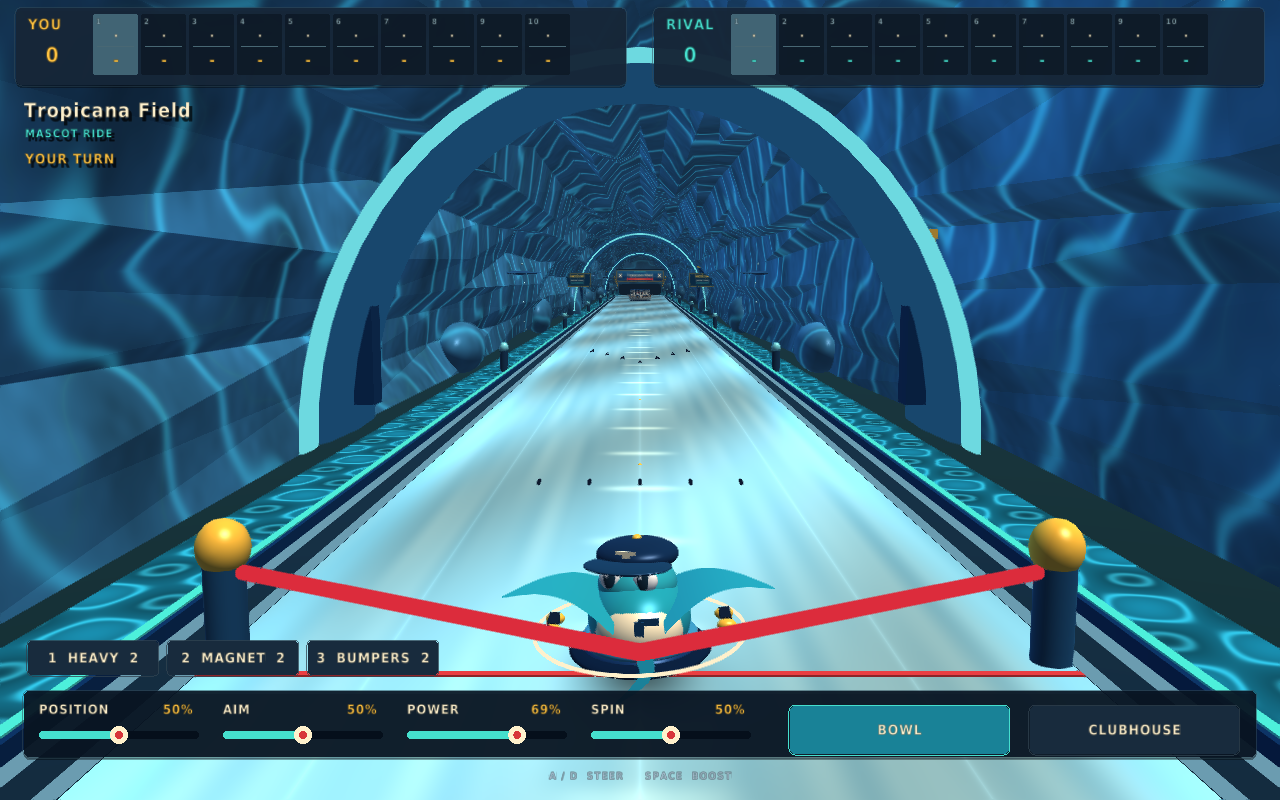
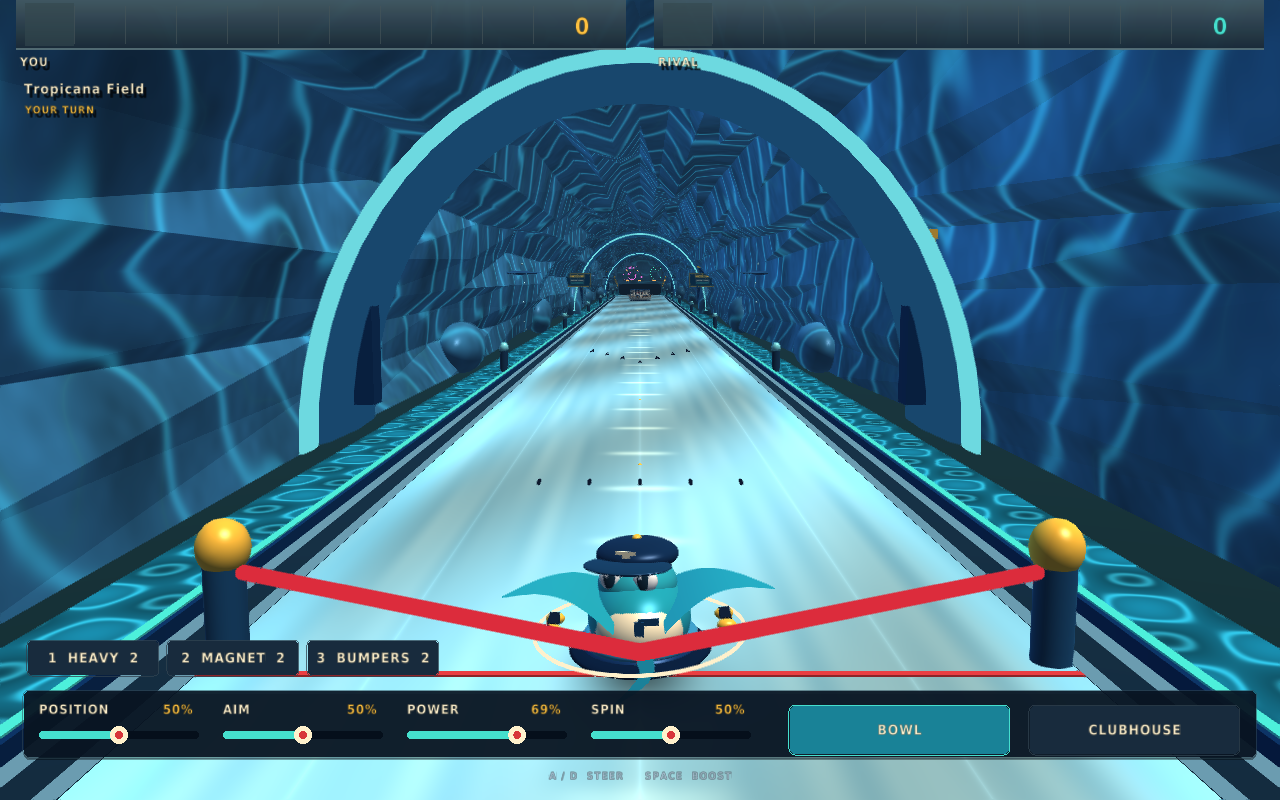
Slim arcade scoreboards and replace billboards with neon bowling art

Changed region(s): [[0.0, 0.0, 1.0, 0.2188], [0.4688, 0.3125, 0.5312, 0.375]]

diff --git a/native/src/art.hpp b/native/src/art.hpp
@@ -192,30 +192,10 @@ void main(){uv=vertexTexCoord;normal=normalize(mat3(matNormal)*vertexNormal);wor
             BeginTextureMode(signs[a]);
             ClearBackground({7, 19, 38, 255});
             DrawRectangleGradientV(0, 0, 1024, 256, {26, 83, 124, 255}, {8, 27, 61, 255});
-            for (int ray = 0; ray < 22; ++ray) {
-                float a = ray * 2 * PI / 22, b = a + .10f;
-                DrawTriangle({512, 128}, {512 + std::cos(b) * 1100, 128 + std::sin(b) * 1100},
-                             {512 + std::cos(a) * 1100, 128 + std::sin(a) * 1100}, {47, 119, 151, 85});
-            }
-            DrawRectangleRoundedLinesEx({9, 9, 1006, 238}, .20f, 10, 10, {9, 20, 39, 255});
-            DrawRectangleRoundedLinesEx({16, 16, 992, 224}, .20f, 10, 5, gold);
-            for (int side : {-1, 1}) {
-                float x = 512 + side * 427.f;
-                DrawLineEx({x - 30, 77}, {x + 31, 179}, 11, {219, 159, 74, 255});
-                DrawLineEx({x + 30, 77}, {x - 31, 179}, 11, {219, 159, 74, 255});
-                DrawCircleV({x, 128}, 39, {7, 19, 40, 255});
-                DrawCircleV({x - 2, 125}, 34, cream);
-                for (int j = -2; j <= 2; ++j) {
-                    DrawLineEx({x - 18, 109 + j * 7.f}, {x - 11, 113 + j * 7.f}, 3, red);
-                    DrawLineEx({x + 11, 109 + j * 7.f}, {x + 18, 113 + j * 7.f}, 3, red);
-                }
-            }
-            float size = std::min(82.f, 755.f / std::max(1.f, tw(bowling::arenas[a].name, 82)) * 82);
-            center("BIG LEAGUE BOWLING", 512, 31, 24, aqua);
-            center(bowling::arenas[a].name, 516, 83, size, {2, 12, 29, 255});
-            center(bowling::arenas[a].name, 512, 77, size, cream);
-            DrawRectangleRounded({224, 176, 576, 48}, .25f, 8, {173, 48, 55, 255});
-            center(bowling::arenas[a].theme, 512, 184, 30, gold);
+            DrawRectangleLinesEx({12, 12, 1000, 232}, 3, {82, 136, 151, 255});
+            float size = std::min(75.f, 900.f / std::max(1.f, tw(bowling::arenas[a].name, 75)) * 75);
+            center(bowling::arenas[a].name, 512, 56, size, cream);
+            center("B A L L P A R K   L A N E S", 512, 164, 26, {110, 189, 196, 255});
             EndTextureMode();
             GenTextureMipmaps(&signs[a].texture);
             SetTextureFilter(signs[a].texture, TEXTURE_FILTER_TRILINEAR);
@@ -551,8 +531,7 @@ void main(){uv=vertexTexCoord;normal=normalize(mat3(matNormal)*vertexNormal);wor
             }
         }
         // A broad themed marquee above the rack, with a readable stadium identity.
-        box({0, 4.6f, 30.8f}, {11.6f, 3.1f, .6f}, {9, 26, 48, 255});
-        sign(signs[arena].texture, {0, 4.6f, 30.42f}, 11.3f, 2.8f);
+        neonMural(30.42f);
         for (int side : {-1, 1}) {
             for (int j = 0; j < 5; ++j)
                 orb({side * (5.4f + j * .18f), 2.2f + j * .5f, 30.4f}, {.23f, .23f, .23f}, gold);
@@ -576,6 +555,44 @@ void main(){uv=vertexTexCoord;normal=normalize(mat3(matNormal)*vertexNormal);wor
                     }
                 }
             }
+    }
+    void neonMural(float z) {
+        auto tubeLine = [&](Vector3 a, Vector3 b, Color hue) {
+            beam(a, b, .095f, {31, 49, 63, 255});
+            beam({a.x, a.y, a.z - .12f}, {b.x, b.y, b.z - .12f}, .035f, hue);
+        };
+        // Original neon bowling illustration, built from continuous tube strokes.
+        for (int i = 0; i < 64; ++i) {
+            float a = i * 2 * PI / 64, b = (i + 1) * 2 * PI / 64;
+            tubeLine({-3.9f + 1.45f * std::cos(a), 5.25f + 1.45f * std::sin(a), z},
+                     {-3.9f + 1.45f * std::cos(b), 5.25f + 1.45f * std::sin(b), z}, {69, 232, 194, 255});
+        }
+        for (Vector2 hole : {Vector2{-4.35f, 5.8f}, Vector2{-3.8f, 6.f}, Vector2{-3.95f, 5.35f}})
+            for (int i = 0; i < 16; ++i) {
+                float a = i * 2 * PI / 16, b = (i + 1) * 2 * PI / 16;
+                tubeLine({hole.x + .12f * std::cos(a), hole.y + .12f * std::sin(a), z},
+                         {hole.x + .12f * std::cos(b), hole.y + .12f * std::sin(b), z},
+                         {69, 232, 194, 255});
+            }
+        const Vector2 shape[] = {
+            {-.48f, 0},     {-.68f, .36f},  {-.72f, .82f}, {-.61f, 1.25f}, {-.29f, 1.9f}, {-.22f, 2.36f},
+            {-.39f, 2.65f}, {-.36f, 3.02f}, {0, 3.19f},    {.36f, 3.02f},  {.39f, 2.65f}, {.22f, 2.36f},
+            {.29f, 1.9f},   {.61f, 1.25f},  {.72f, .82f},  {.68f, .36f},   {.48f, 0},     {-.48f, 0}};
+        for (int pin = 0; pin < 3; ++pin) {
+            float angle = (pin - 1) * .25f, ox = .2f + pin * 1.7f;
+            auto point = [&](Vector2 p) {
+                return Vector3{ox + p.x * std::cos(angle) - p.y * std::sin(angle),
+                               3.7f + p.x * std::sin(angle) + p.y * std::cos(angle), z};
+            };
+            for (int i = 0; i < 17; ++i)
+                tubeLine(point(shape[i]), point(shape[i + 1]), {233, 111, 220, 255});
+            tubeLine(point({-.24f, 2.2f}), point({.24f, 2.2f}), {255, 202, 108, 255});
+        }
+        for (int i = 0; i < 28; ++i) {
+            float x = -6.3f + i * .45f;
+            tubeLine({x, 3.45f + .1f * std::sin(x), z}, {x + .45f, 3.45f + .1f * std::sin(x + .45f), z},
+                     {255, 184, 99, 255});
+        }
     }
     void loungeDetails(Color team) {
         // Close columns, soffits and pendant lights, in the warm arcade-bowling style.
@@ -691,11 +708,15 @@ void main(){uv=vertexTexCoord;normal=normalize(mat3(matNormal)*vertexNormal);wor
                 box({x, 2.85f, 28.7f}, {7, .20f, .35f}, team);
                 box({x, 2.71f, 28.65f}, {6.5f, .06f, .12f}, aqua);
             }
-            box({0, 5.5f, 30.5f}, {18, 3.9f, 1}, ink);
-            box({0, 7.65f, 30.5f}, {19, .25f, 1.4f}, gold);
-            sign(signs[arena].texture, {0, 5.5f, 29.95f}, 17.6f, 3.7f);
-            for (float x : {-15.f, 15.f})
-                sign(arena == 9 ? ad.texture : signs[arena].texture, {x, 5.4f, 29.8f}, 7, 3.5f);
+            material(2);
+            box({0, 5.4f, 30.5f}, {45, 5.1f, .7f}, {72, 56, 62, 255});
+            material(0);
+            box({0, 7.95f, 30.2f}, {45, .12f, .3f}, {128, 83, 62, 255});
+            neonMural(29.8f);
+            for (float x : {-14.f, 14.f}) {
+                box({x, 5.2f, 29.9f}, {5.1f, 1.4f, .2f}, {17, 30, 42, 255});
+                sign(signs[arena].texture, {x, 5.2f, 29.75f}, 4.8f, 1.2f);
+            }
             material(2);
             box({0, 9, 39}, {66, 18, 1}, {91, 62, 48, 255});
             material(0);

diff --git a/native/src/main.cpp b/native/src/main.cpp
@@ -24,23 +24,28 @@ std::string marks(const std::vector<int> &r, int f) {
     return s.empty() ? "." : s;
 }
 void scoreCard(const Game &g, float x, Color c, const char *who) {
-    panel({x, 8, 610, 77}, {23, 41, 59, 245});
-    text(who, x + 12, 16, 17, c);
+    // One shallow score strip per player, like a classic arcade bowling display.
+    DrawRectangleGradientV(int(x), 0, 610, 49, {68, 91, 102, 245}, {26, 44, 57, 245});
+    DrawLineEx({x, 49}, {x + 610, 49}, 2, {110, 141, 148, 210});
     auto scores = g.scores();
     for (int i = 0; i < 10; ++i) {
-        float left = x + 77 + i * 48.f;
-        DrawRectangleRounded({left, 14, 45, 61}, .12f, 4,
-                             i == g.frame ? Color{65, 100, 116, 255} : Color{15, 29, 44, 220});
-        text(std::to_string(i + 1), left + 3, 17, 9, {145, 177, 188, 255});
-        center(marks(g.frames[i], i), left + 23, 25, 15, cream);
-        DrawLine(left + 4, 46, left + 41, 46, {72, 103, 115, 255});
-        center(scores[i] ? std::to_string(*scores[i]) : "-", left + 23, 51, 18, c);
+        float left = x + 9 + i * 51.f;
+        if (i == g.frame)
+            DrawRectangle(int(left), 3, 49, 43, {88, 123, 132, 125});
+        DrawLine(int(left + 50), 6, int(left + 50), 44, {117, 143, 150, 130});
+        std::string rolls = marks(g.frames[i], i);
+        if (rolls == ".")
+            rolls = "";
+        center(rolls, left + 24, 7, 15, {211, 230, 224, 255});
+        if (scores[i])
+            center(std::to_string(*scores[i]), left + 24, 27, 18, c);
     }
     int total = 0;
     for (auto score : scores)
         if (score)
             total = *score;
-    center(std::to_string(total), x + 36, 43, 24, c);
+    center(std::to_string(total), x + 566, 13, 27, c);
+    title(who, x + 4, 55, 14, cream);
 }
 int main(int argc, char **argv) {
     bool smoke = false, startInGame = false, smokeMascot = false, demoShot = false;
@@ -417,12 +422,12 @@ int main(int argc, char **argv) {
         } else {
             scoreCard(match.games[0], 16, gold, "YOU");
             scoreCard(match.games[1], 654, aqua, "RIVAL");
-            title(arenas[arena].name, 24, 99, 23, cream);
-            title(match.mascot ? "MASCOT RIDE" : "BALLPARK BOWLING", 25, 127, 13, aqua);
+            title(arenas[arena].name, 24, 81, 16, cream);
+
             title(state == 3          ? "MATCH COMPLETE"
                   : match.player == 0 ? "YOUR TURN"
                                       : "RIVAL'S TURN",
-                  25, 151, 16, gold);
+                  25, 104, 12, gold);
             if (state == 2 || state == 3) {
                 DrawRectangle(180, 320, 920, 90, {13, 24, 45, 210});
                 center(result, 640, 342, 33, gold);

diff --git a/native/ART_DIRECTION.md b/native/ART_DIRECTION.md
@@ -48,3 +48,9 @@ Removed riveted panel borders and the right-side power tower. Powers are compact
 The second Dropbox clip is now accessible: 26.333 seconds. Sampled frames (including 0.5-second samples around 12–21 seconds) show lateral placement arrows, a vertical green meter, launch and following camera. This supersedes the earlier unavailable-reference notes. Mouse button events are not visible: upward drag for power, lateral drag for aim and release-to-launch are an inferred mapping, not verified original input internals. Space retains the timed keyboard alternative. Traditional uses the new on-lane UI instead of four sliders.
 
 The previous 17.35:1 presentation stretched the entire hall and was a poor match for this arcade reference. Traditional mode now deliberately compresses lane depth (1.55 times normalized coordinates), with restored close scenery and a 53-degree camera. It is not presented as a regulation simulation. Mascot presentation is unchanged.
+
+## Scoreboard / back wall detail pass
+
+Scorecards now use 49-pixel slate strips with fine frame dividers, roll marks above cumulative scores, and totals at the outside ends. Player labels sit below the strips. Empty frames no longer display placeholder dots/dashes. Both modes share the slim scorecards.
+
+The large center stadium billboards have been removed in both scenes. Original neon tube outlines of bowling pins and a ball replace them. Traditional's back wall has brick texture and wood trim; smaller side plaques retain stadium identity. Side plaque artwork is now a restrained wordmark rather than the baseball/bat billboard. The bowling controls and progression are unchanged.

diff --git a/native/docs/VALIDATION.md b/native/docs/VALIDATION.md
@@ -45,3 +45,7 @@ The 26.333-second Zombies clip is now accessible and was visually sampled, inclu
 Linux build passed all nine physics/rules scenarios and the campaign suite, including new drag power/aim, locked position, bounds and downward-drag checks. Both graphical matches passed (traditional 37 rolls, 115–119; mascot 41 rolls, 72–35). Real X11 mouse movement/press/drag was injected into the native window and the 81% held-power screenshot was visually checked. Windows cross-build and ZIP verification passed; Windows execution remains unverified.
 
 A second real X11 input run pressed, dragged and released the mouse. The captured result showed the ball at the pin deck, fallen pins and the following camera, confirming release launches the shot. The original game's exact mouse-button semantics still cannot be proven from a screen recording alone.
+
+## Slim scorecard / neon wall pass
+
+Linux build and existing rules/campaign suites passed. A full traditional match completed in 37 rolls (115–119). Visually inspected both the initial scene and completed scorecards, including strikes, spares, cumulative totals and tenth-frame bonus marks. Saved screenshots: wrigley-traditional.png and scorecard-result.png. No graphical shader errors. Windows cross-build completed; Windows execution remains unverified.

diff --git a/HANDOFF.md b/HANDOFF.md
@@ -37,3 +37,5 @@ The original task workspace contains /workspace/baseball-bowling/dist/Big-League
 Latest follow-up: rendered lane proportions use the 60 ft / 41.5 in ratio, converted from normalized simulation coordinates. Shot timing/physics remain arcade-style. HUD has simpler panels/buttons, horizontal powers, and hides shot controls in motion. See ART_DIRECTION.md and VALIDATION.md for scope and checks. The prior artifact backup is the earlier graphics build; rebuild the latest Windows ZIP from source.
 
 Latest Zombies follow-up: second Dropbox clip successfully inspected (26.333 s). Traditional now uses mouse placement, upward drag power, sideways drag aim and release-to-launch, with a vertical meter instead of sliders. Mouse events are inferred, not verified from video. Traditional hall depth was restored to compressed arcade proportions after the regulation-ratio scene stretch looked wrong. Mascot remains separate. See the latest sections in ART_DIRECTION.md and REFERENCE_REVIEW.md.
+
+Latest detail pass: slim 49-pixel score strips replace chunky scorecard tiles. The huge center signs are removed from traditional and mascot environments; original neon bowling outlines and small side stadium plaques take their place. See native/docs/scorecard-result.png for a completed scorecard preview.
